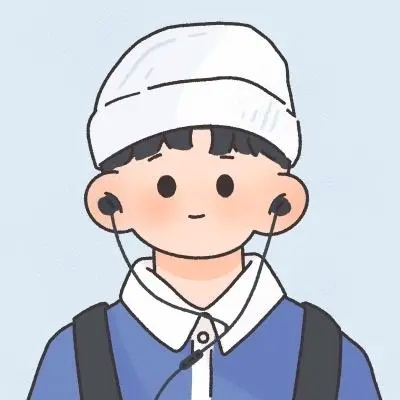
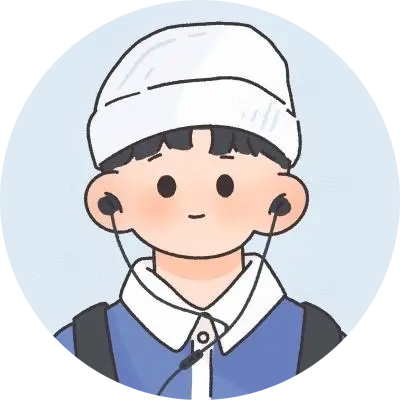
修改配置和样式

diff --git a/docs/.vuepress/plume.config.ts b/docs/.vuepress/plume.config.ts
@@ -2,10 +2,18 @@ import { defineThemeConfig } from 'vuepress-theme-plume'
 import navbar from './navbar'
 
 export default defineThemeConfig({
-  logo: 'https://theme-plume.vuejs.press/plume.png',
+  logo: '/avatar.png',
   appearance: true,
   social: [
     { icon: 'github', link: 'https://github.com/Jursin/Blog' },
+    { icon: 'bilibili', link: 'https://space.bilibili.com/1575907920' },
+    {
+      icon: {
+        svg: '<svg xmlns="http://www.w3.org/2000/svg" width="24" height="24" viewBox="0 0 24 24"><path fill="currentColor" d="m20 8l-8 5l-8-5V6l8 5l8-5m0-2H4c-1.11 0-2 .89-2 2v12a2 2 0 0 0 2 2h16a2 2 0 0 0 2-2V6a2 2 0 0 0-2-2"/></svg>',
+        name: 'email'
+      },
+      link: 'mailto:jursin@126.com'
+    },
     {
       icon: {
         svg: '<svg xmlns="http://www.w3.org/2000/svg" width="24" height="24" viewBox="0 0 24 24"><path fill="currentColor" d="M5 3h14a2 2 0 0 1 2 2v14a2 2 0 0 1-2 2H5a2 2 0 0 1-2-2V5a2 2 0 0 1 2-2m2.5 12A1.5 1.5 0 0 0 6 16.5A1.5 1.5 0 0 0 7.5 18A1.5 1.5 0 0 0 9 16.5A1.5 1.5 0 0 0 7.5 15M6 10v2a6 6 0 0 1 6 6h2a8 8 0 0 0-8-8m0-4v2a10 10 0 0 1 10 10h2A12 12 0 0 0 6 6"/></svg>',
@@ -14,7 +22,7 @@ export default defineThemeConfig({
       link: '/rss.xml'
     },
   ],
-  navbarSocialInclude: ['github', 'rss'], // 允许显示在导航栏的 social 社交链接
+  navbarSocialInclude: ['github', 'bilibili', 'rss'], // 允许显示在导航栏的 social 社交链接
   // aside: true, // 页内侧边栏， 默认显示在右侧
   // outline: [2, 3], // 页内大纲， 默认显示 h2, h3
   copyright: { 

diff --git a/docs/.vuepress/config.ts b/docs/.vuepress/config.ts
@@ -126,8 +126,26 @@ export default defineUserConfig({
      * @see https://theme-plume.vuejs.press/guide/features/comments/
      */
     comment: {
-      provider: 'Twikoo',
-      envId: 'https://tanuki-jursin.netlify.app/.netlify/functions/twikoo',
+      provider: 'Waline',
+      serverURL: 'https://waline-starter.netlify.app/.netlify/functions/comment',
+      emoji: [
+          "https://jsd.akams.cn/gh/walinejs/emojis@1.4.0/bilibili",
+          "https://jsd.akams.cn/gh/walinejs/emojis@1.4.0/bmoji",
+          'https://jsd.akams.cn/gh/walinejs/emojis@1.4.0/qq',
+          'https://jsd.akams.cn/gh/walinejs/emojis@1.4.0/tieba',
+          "https://jsd.akams.cn/gh/walinejs/emojis@1.4.0/weibo",
+          'https://unpkg.com/@waline/emojis@1.2.0/tw-emoji',
+          'https://jsd.akams.cn/gh/norevi/waline-blobcatemojis@1.0/blobs',
+          'https://jsd.akams.cn/gh/walinejs/emojis@1.4.0/alus',
+      ],
+      reaction: [
+        'https://npm.elemecdn.com/@waline/emojis@1.1.0/bilibili/bb_heart_eyes.png',
+        'https://npm.elemecdn.com/@waline/emojis@1.1.0/bilibili/bb_thumbsup.png',
+        'https://npm.elemecdn.com/@waline/emojis@1.1.0/bilibili/bb_zhoumei.png',
+        'https://npm.elemecdn.com/@waline/emojis@1.1.0/bilibili/bb_grievance.png',
+        'https://npm.elemecdn.com/@waline/emojis@1.1.0/bilibili/bb_dizzy_face.png',
+        'https://npm.elemecdn.com/@waline/emojis@1.1.0/bilibili/bb_slap.png',
+      ],
     },
 
     /**

diff --git a/docs/.vuepress/theme/styles/custom.css b/docs/.vuepress/theme/styles/custom.css
@@ -126,6 +126,7 @@
 .vp-friend {
   border-radius: 16px !important;
   transition: transform 0.3s;
+  background-color: #c8c8c81a !important;
 }
 
 .vp-friend:hover {
@@ -146,12 +147,13 @@
   padding: 8px;
   border-radius: 16px !important;
   display: flex;
+  background-color: transparent !important;
 }
 
 .avatar img {
   object-fit: contain !important;
   object-position: center !important;
-  border-radius: 10px !important;
+  border-radius: 50% !important;
 }
 
 .vp-link.title {

diff --git a/docs/friends.md b/docs/friends.md
@@ -13,6 +13,10 @@ groups:
         link: https://hellowrc.dev/
         avatar: https://hellowrc.dev/avatar-circle.png
         desc: ClassIsland 开发者
+      - name: 落雪无痕LxHTT
+        link: https://www.lxhtt.cn/
+        avatar: https://www.lxhtt.cn/img/avatar.webp
+        desc: 活着就是为了改变世界。
       - name: SRInternet
         link: https://srinternet.github.io/
         avatar: https://avatars.githubusercontent.com/u/89620382
